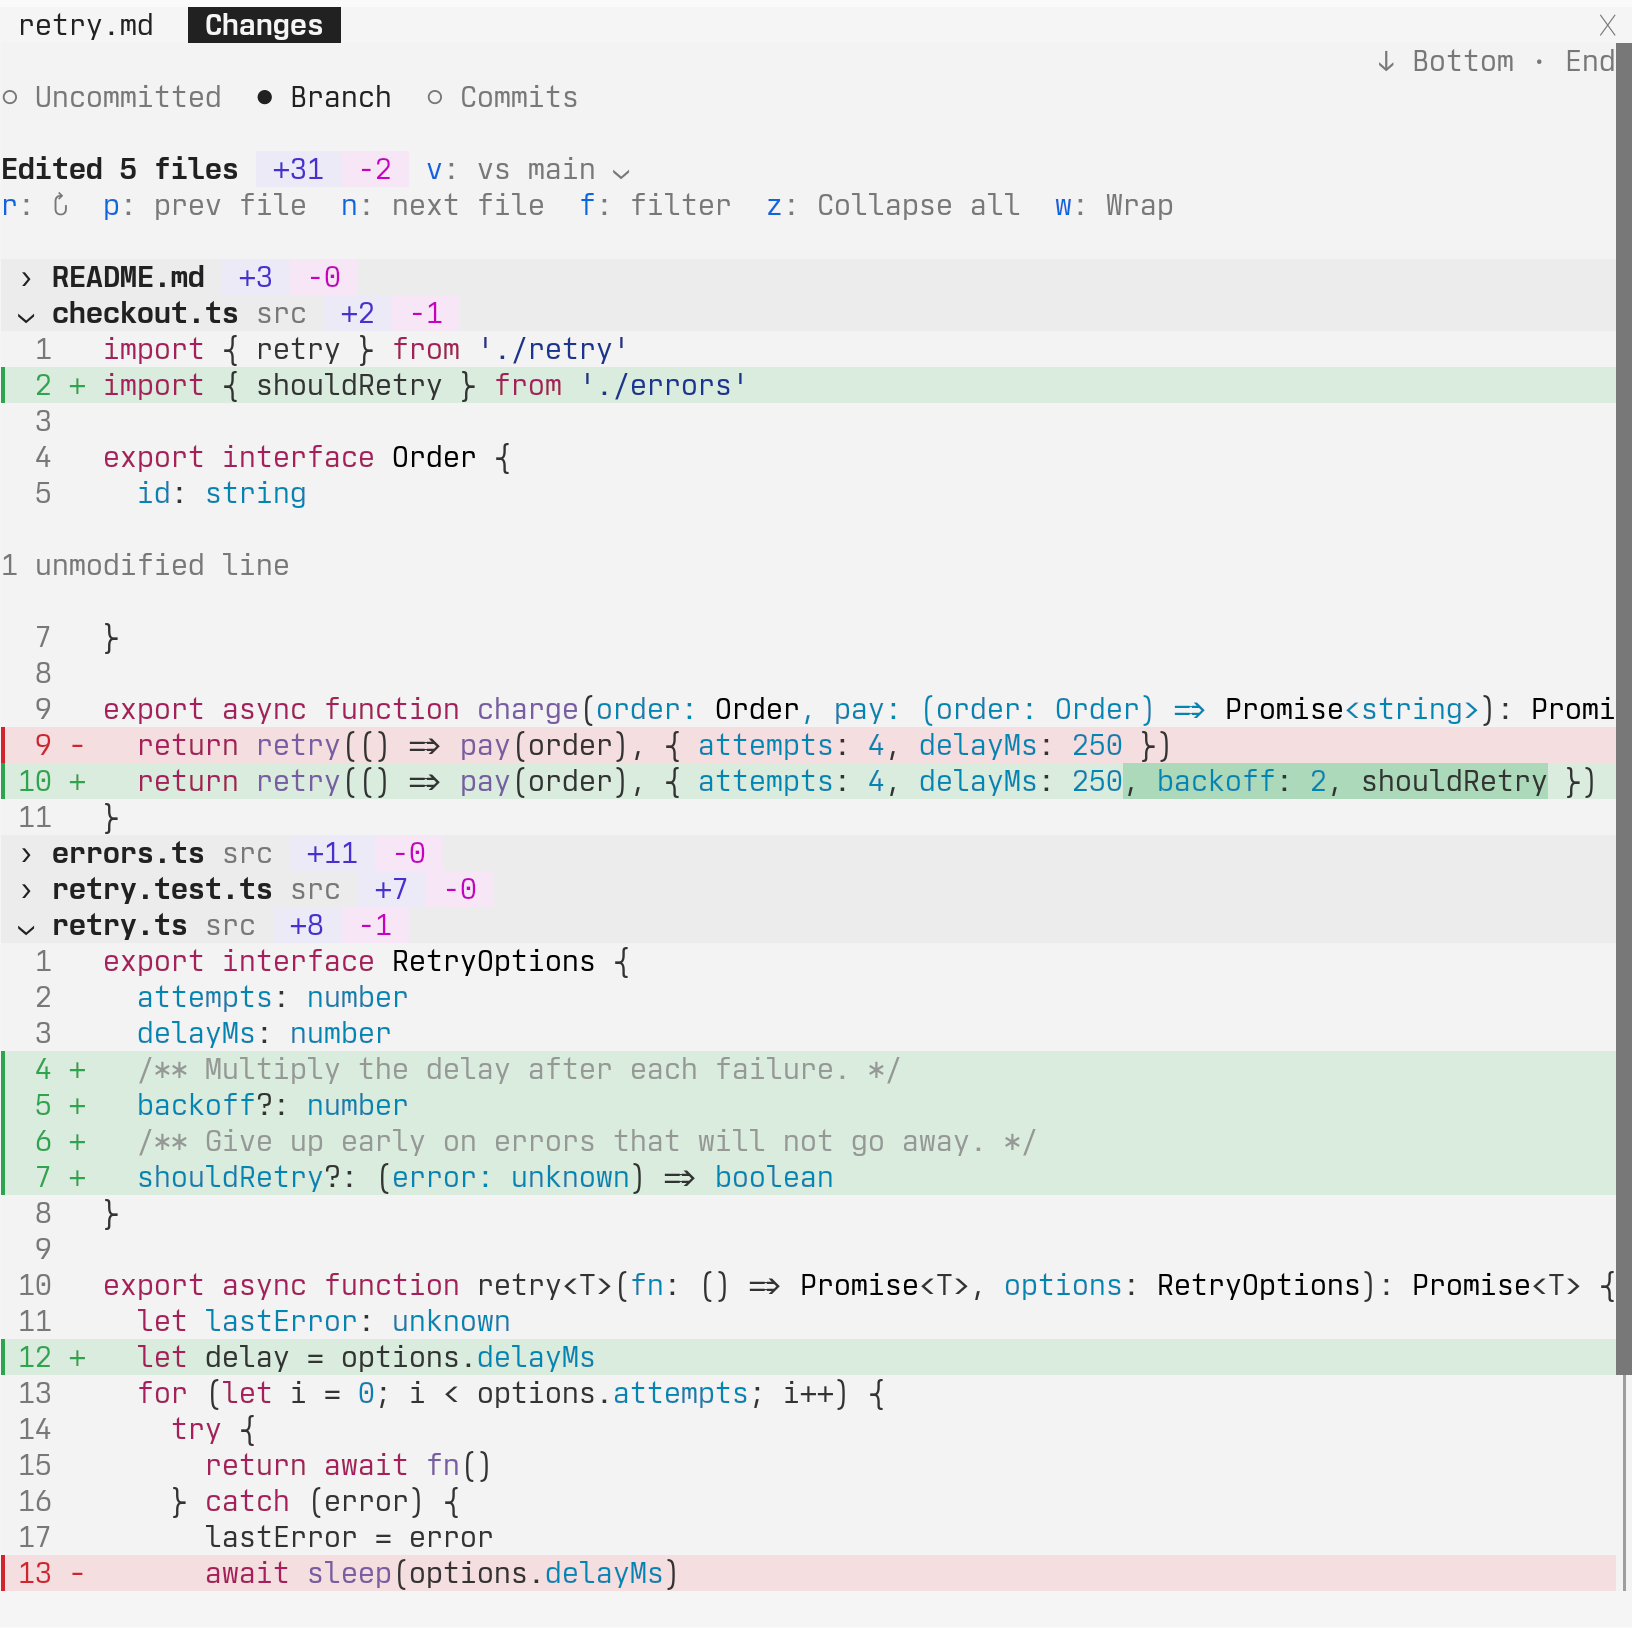
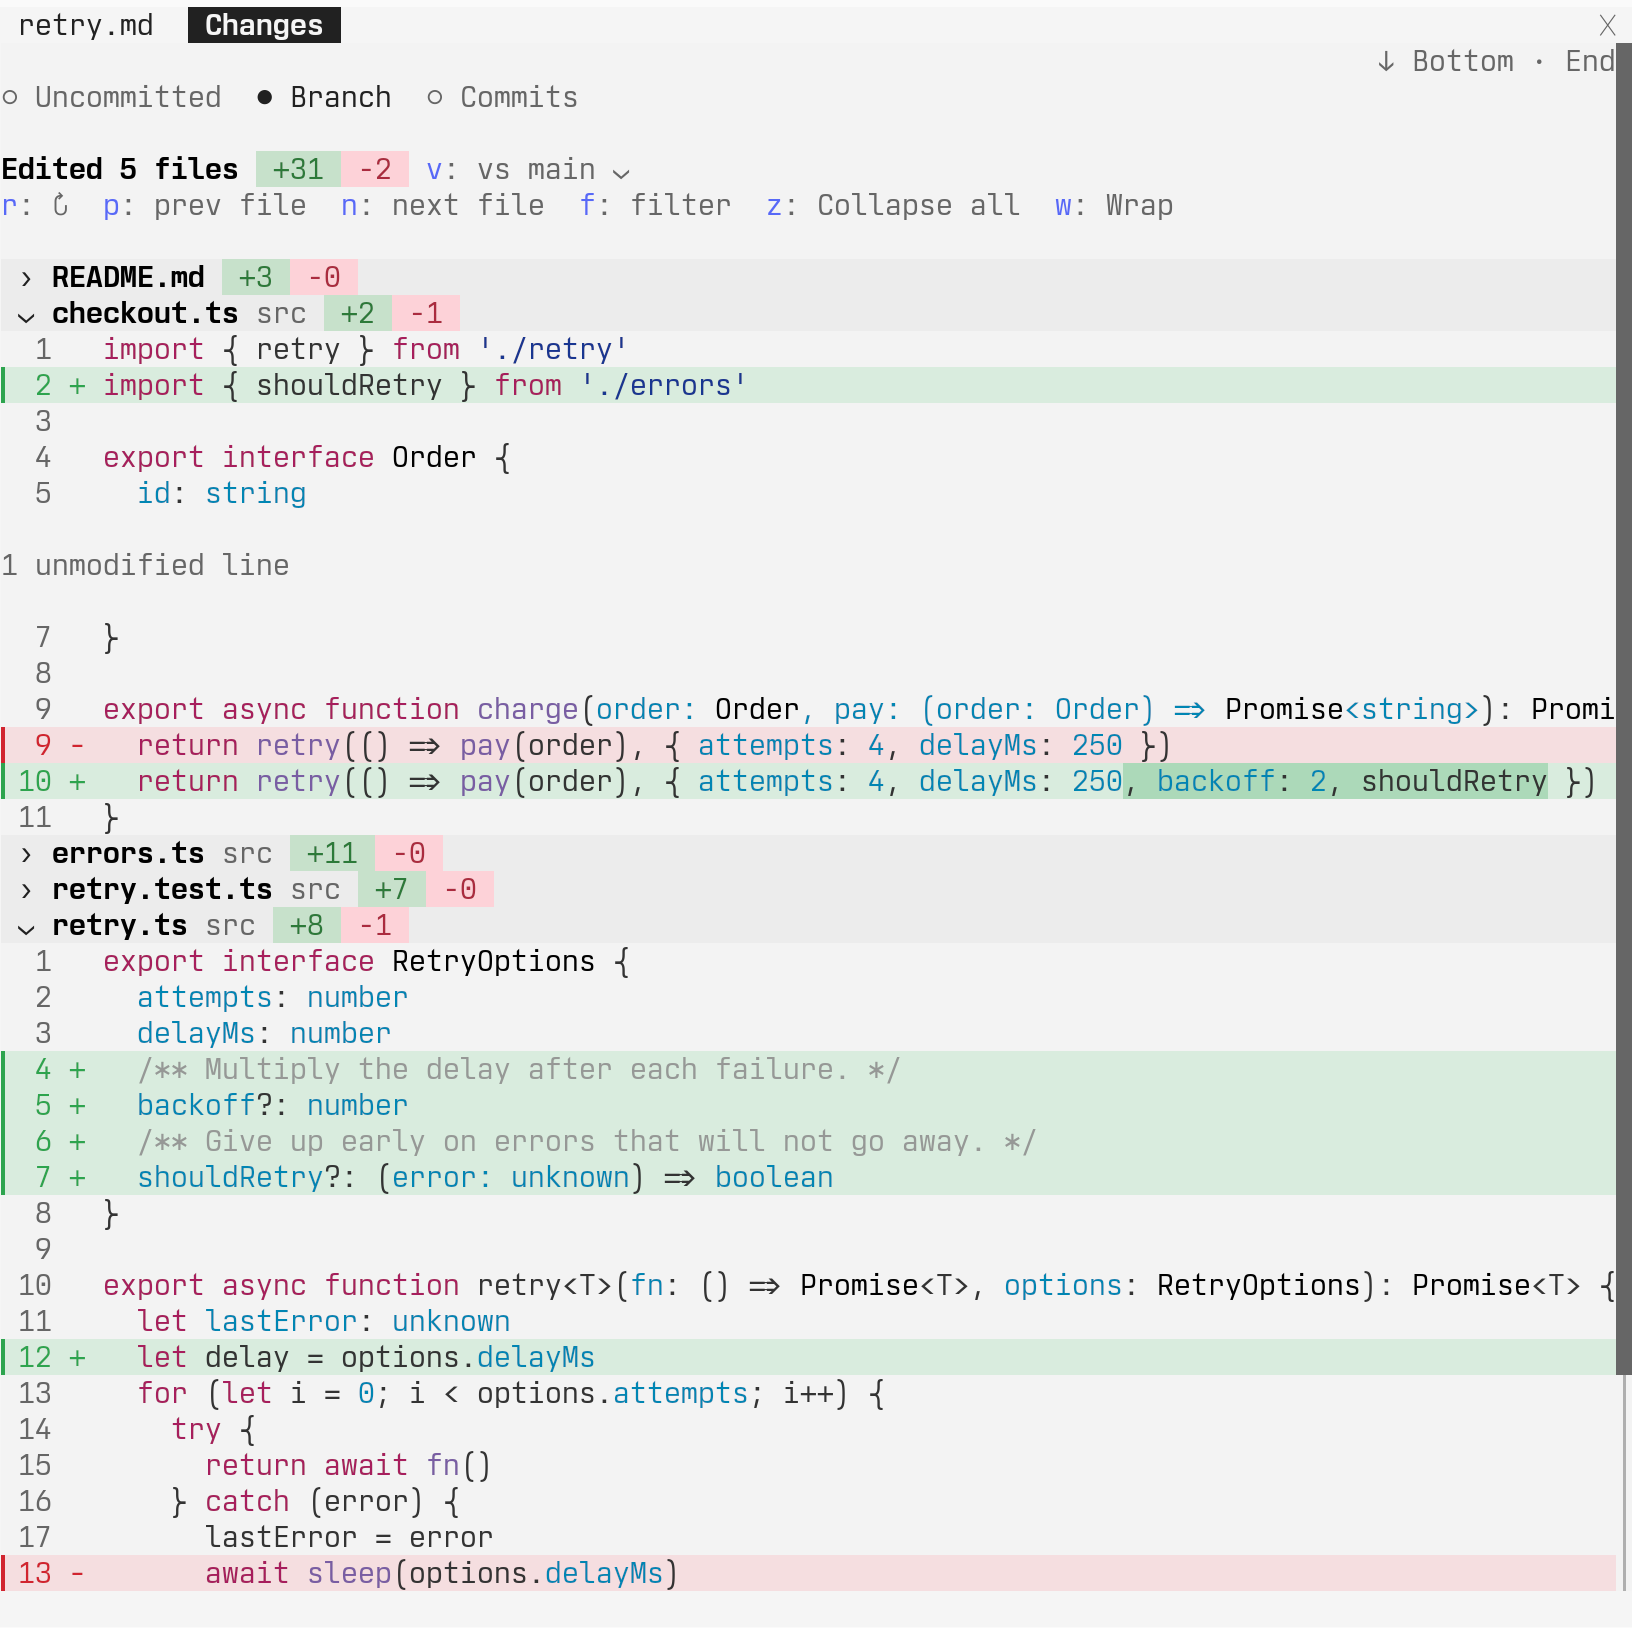
문서 사진을 기본 테마로 다시 찍고 계정 정보를 가린다
사용자 테마(custom:omarchy)에서는 Warning 상자가 Note 와 같은 파란색이라 문서의
"종류별 색 테두리"가 사진에 안 보였다. 스틸 9장을 Claude Code 기본 light 테마로 다시 찍는다.
컨텍스트 사진의 비용·사용 한도 값은 흐리게 가린다.

Claude-Session: https://claude.ai/code/session_01Hwruo64BT79G7o7oeGh6Gc

diff --git a/docs/classic.html b/docs/classic.html
@@ -970,7 +970,7 @@ flowchart TD
           <li><kbd>o</kbd> <span lang="en">open it full-window in your browser</span><span lang="ko">브라우저에서 전체 창으로 열기</span></li>
         </ul>
       </div>
-      <div class="dock"><div class="conv" aria-hidden="true"><i class="b"></i><i style="width:92%"></i><i style="width:78%"></i><i class="f" style="width:58%"></i><i class="s" style="width:88%"></i><i style="width:70%"></i><i style="width:82%"></i><i class="f" style="width:46%"></i><i class="b s" style="width:55%"></i><i style="width:90%"></i><i style="width:64%"></i><i class="c"></i></div><div class="pane"><img class="crop" src="preview.png" width="1224" height="1591" loading="lazy" alt="The /desk-preview pane: a front matter box, a warning box, a table and a mermaid flowchart"></div></div>
+      <div class="dock"><div class="conv" aria-hidden="true"><i class="b"></i><i style="width:92%"></i><i style="width:78%"></i><i class="f" style="width:58%"></i><i class="s" style="width:88%"></i><i style="width:70%"></i><i style="width:82%"></i><i class="f" style="width:46%"></i><i class="b s" style="width:55%"></i><i style="width:90%"></i><i style="width:64%"></i><i class="c"></i></div><div class="pane"><img class="crop" src="preview.png" width="1223" height="1591" loading="lazy" alt="The /desk-preview pane: a front matter box, a warning box, a table and a mermaid flowchart"></div></div>
     </div>
 
     <div class="panel" role="tabpanel" id="p-context" aria-labelledby="t-context" hidden>

diff --git a/docs/index.html b/docs/index.html
@@ -825,7 +825,7 @@ figcaption { margin-top: 14px; font-size: .9rem; color: var(--ink-2); max-width:
         <div style="padding-left:4ch;margin-top:.3em"><span class="btn-t">Hand to Claude</span></div>
         <div class="sp"><span class="btn-t dark">Merge when checks pass</span></div>
       </div></div>
-      <div class="pane img" role="tabpanel" id="p-preview" aria-labelledby="t-preview" aria-describedby="d-preview" hidden><img src="preview.png" width="1224" height="1591" loading="lazy" alt="The /desk-preview pane: a front matter box, a warning box, a table and a mermaid flowchart"></div>
+      <div class="pane img" role="tabpanel" id="p-preview" aria-labelledby="t-preview" aria-describedby="d-preview" hidden><img src="preview.png" width="1223" height="1591" loading="lazy" alt="The /desk-preview pane: a front matter box, a warning box, a table and a mermaid flowchart"></div>
       <div class="pane img" role="tabpanel" id="p-context" aria-labelledby="t-context" aria-describedby="d-context" hidden><img src="context.png" width="1224" height="1406" loading="lazy" alt="The /desk-context pane: a context bar in category colors, per-category bars, what is loaded into the context, a graph of this session with a compaction marker, cache, cost and usage limits"></div>
       <div class="pane rec" role="tabpanel" id="p-sessions" aria-labelledby="t-sessions" aria-describedby="d-sessions" hidden><div class="term">
         <div class="search">⌕ Search sessions</div>
